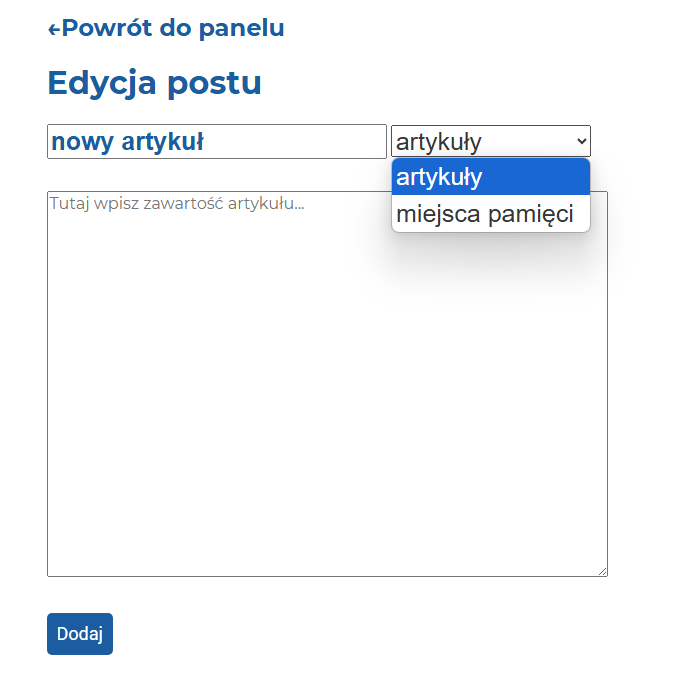
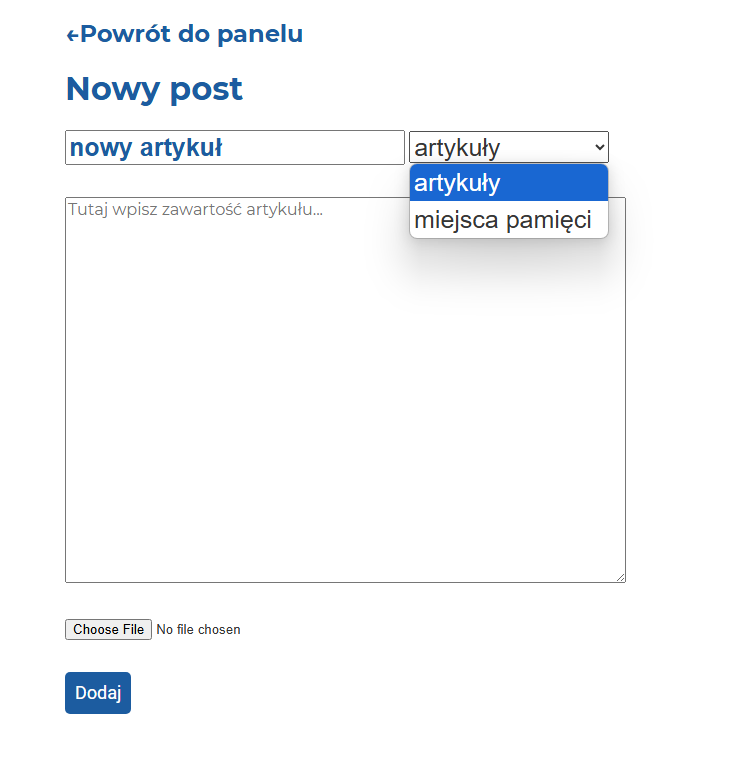
added image support

diff --git a/public/css/app.css b/public/css/app.css
@@ -109,11 +109,13 @@ nav a:hover {
 .article, .statue {
     height: 400px;
     background-repeat: no-repeat;
+    margin-bottom: 4rem;
 }
 
 .article {
     width: 70%;
     margin-right: 62px;
+    background-position: center;
 }
 
 .article-bar {
@@ -441,4 +443,18 @@ select#category_id {
 
 #form-inline {
     display: inline;
+}
+
+#input-file-container {
+    margin-bottom: 2rem;
+}
+
+#edit-post-image {
+    max-height: 200px;
+    margin-bottom: 2rem;
+}
+
+#panel-post-img {
+    max-width: 350px;
+    max-height: 200px;
 }

diff --git a/resources/views/edit-post.blade.php b/resources/views/edit-post.blade.php
@@ -6,11 +6,11 @@
         <h1>Edycja postu</h1>
     </div>
 
-    <form action="{{ route('post.update', ['post' => $post]) }}" method="POST">
+    <form action="{{ route('post.update', ['post' => $post]) }}" method="POST" enctype="multipart/form-data">
         @csrf
         @method('PUT')
         <div>
-            <input id="edit-title" type="text" value="{{ $post->title }}">
+            <input id="edit-title" name="title" type="text" value="{{ $post->title }}">
 
             <select name="category_id" id="category_id">
                 {{-- <option value="{{ $post->category->id }}">{{ $post->category->category_name }}</option> --}}
@@ -29,6 +29,14 @@
 
         <div id="edit-content-container">
             <textarea name="content" id="edit-content" cols="60" rows="20">{{ $post->content }}</textarea>
+        </div>
+
+        @if($post->path)
+            <img id="edit-post-image" src="{{ asset('images/' . $post->path) }}" alt="">
+        @endif
+
+        <div id="input-file-container">
+            <input type="file" name="input_file" id="input_file">
         </div>
 
         <div>

diff --git a/app/Http/Controllers/PostsController.php b/app/Http/Controllers/PostsController.php
@@ -41,6 +41,14 @@ class PostsController extends Controller
                 'category_id' => 'required'
             ]);
 
+            if($file = $request->file('input_file')) {
+                $name = $file->getClientOriginalName();
+
+                $file->move('images', $name);
+
+                $validated['path'] = $name;
+            }
+
             $post = Post::create($validated);
 
             // return redirect()->route('post.show', ['post' => $post]);
@@ -80,6 +88,15 @@ class PostsController extends Controller
     public function update(Request $request, Post $post)
     {
         if(auth()->check()) {
+            if($file = $request->file('input_file')) {
+                $name = $file->getClientOriginalName();
+
+                $file->move('images', $name);
+
+                $post['path'] = $name;
+            }
+
+
             $post->update($request->all());
 
             // return redirect()->route('post.show', ['post' => $post]);

diff --git a/resources/views/create-post.blade.php b/resources/views/create-post.blade.php
@@ -3,10 +3,10 @@
 @section('content')
     <div id="edit-container">
         <h2><a href="{{ route('panel') }}">←Powrót do panelu</a></h2>
-        <h1>Edycja postu</h1>
+        <h1>Nowy post</h1>
     </div>
 
-    <form action="{{ route('post.store') }}" method="POST">
+    <form action="{{ route('post.store') }}" method="POST" enctype="multipart/form-data">
         @csrf
 
         <div>
@@ -23,6 +23,10 @@
 
         <div id="edit-content-container">
             <textarea name="content" id="edit-content" cols="60" rows="20" placeholder="Tutaj wpisz zawartość artykułu..."></textarea>
+        </div>
+
+        <div id="input-file-container">
+            <input type="file" name="input_file" id="input_file">
         </div>
 
         <div>

diff --git a/resources/views/panel.blade.php b/resources/views/panel.blade.php
@@ -23,7 +23,11 @@
                 <div class="article">
                     <a href="{{ route('post.show', ['post' => $post]) }}"><h1>{{ $post->title }}</h1></a>
 
-                    <img src="https://placehold.co/350x200" alt="article image">
+                    @if(!is_null($post->path))
+                        <img id="panel-post-img" src="{{ asset('images/' . $post->path) }}" alt="image">
+                    @else
+                        <img id="panel-post-img" src="https://placehold.co/350x200" alt="article image">
+                    @endif
 
                     <p>{{ Str::limit($post->content, 200) }}
                         {{ strlen($post->content) > 200 ? "[...]" : '' }}

diff --git a/resources/views/post-category.blade.php b/resources/views/post-category.blade.php
@@ -33,7 +33,11 @@
             <div class="article">
                 <a href="{{ route('post.show', ['post' => $post]) }}"><h1>{{ $post->title }}</h1></a>
 
-                <img src="https://placehold.co/350x200" alt="article image">
+                @if(!is_null($post->path))
+                        <img id="panel-post-img" src="{{ asset('images/' . $post->path) }}" alt="image">
+                    @else
+                        <img id="panel-post-img" src="https://placehold.co/350x200" alt="article image">
+                    @endif
 
                 @if(strlen($post->content) > 200)
                     <p>{{ Str::limit($post->content, 200) }}[...]</p>

diff --git a/resources/views/index.blade.php b/resources/views/index.blade.php
@@ -3,7 +3,7 @@
 @section('main')
     <div class="row-container">
         @if($post)
-        <div class="article" style="background-image: url('{{ asset('images/dummy-article.jpg') }}')">
+        <div class="article" style="background-image: url('{{ asset('images/' . $post->path) }}')">
             <a href="{{ route('post.show', ['post' => $post->id]) }}">
                 <div class="article-bar">
                     <p class="last-article-text">{{ $post->title }}</p>

diff --git a/database/migrations/2025_04_30_000639_create_posts_table.php b/database/migrations/2025_04_30_000639_create_posts_table.php
@@ -16,7 +16,8 @@ return new class extends Migration
             $table->string('title');
             $table->text('content');
             $table->integer('author_id')->nullable();
-            $table->integer('category_id')->nullable();
+            $table->integer('category_id');
+            $table->string('path')->nullable();
             $table->timestamps();
         });
     }

diff --git a/app/Models/Post.php b/app/Models/Post.php
@@ -7,7 +7,7 @@ use Illuminate\Database\Eloquent\Model;
 class Post extends Model
 {
 
-    protected $fillable = ['id', 'title', 'content', 'author_id', 'category_id', 'created_at', 'updated_at'];
+    protected $fillable = ['id', 'title', 'content', 'author_id', 'category_id', 'created_at', 'updated_at', 'path'];
 
 
     public function category() {

diff --git a/resources/views/show-post.blade.php b/resources/views/show-post.blade.php
@@ -5,5 +5,11 @@
 @endsection
 
 @section('content')
+    @if($post->path)
+    <div>
+        <img src="{{ asset('images/' . $post->path) }}" alt="">
+    </div>
+    @endif
+
     {{ $post->content }}</p>
 @endsection
